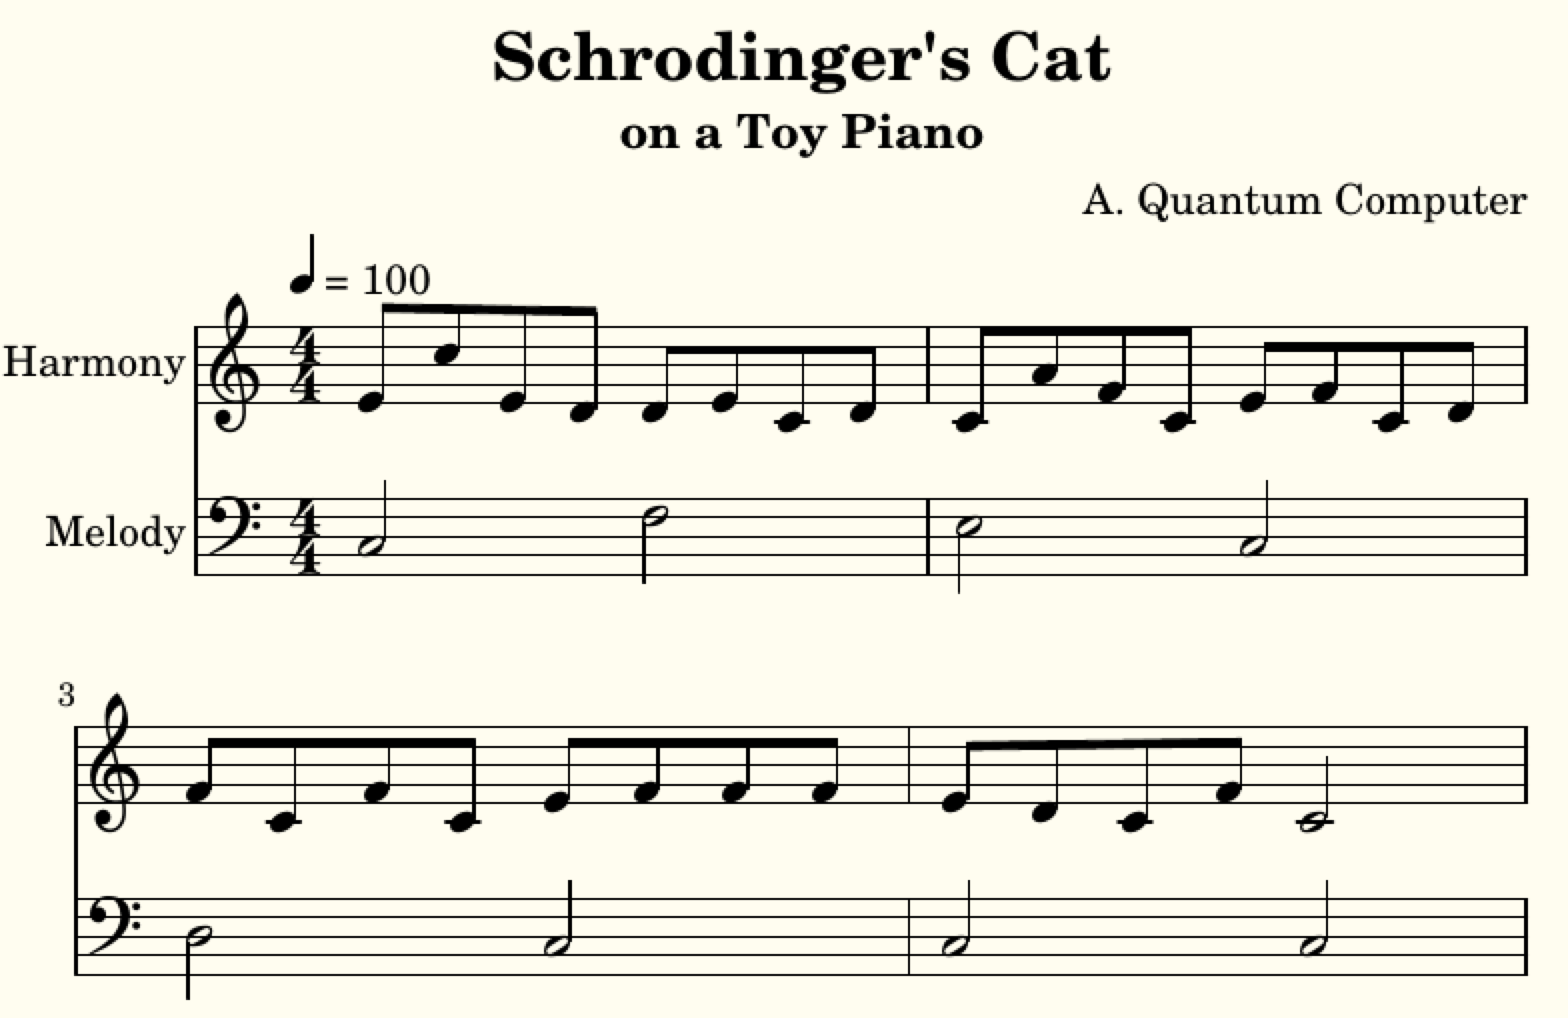
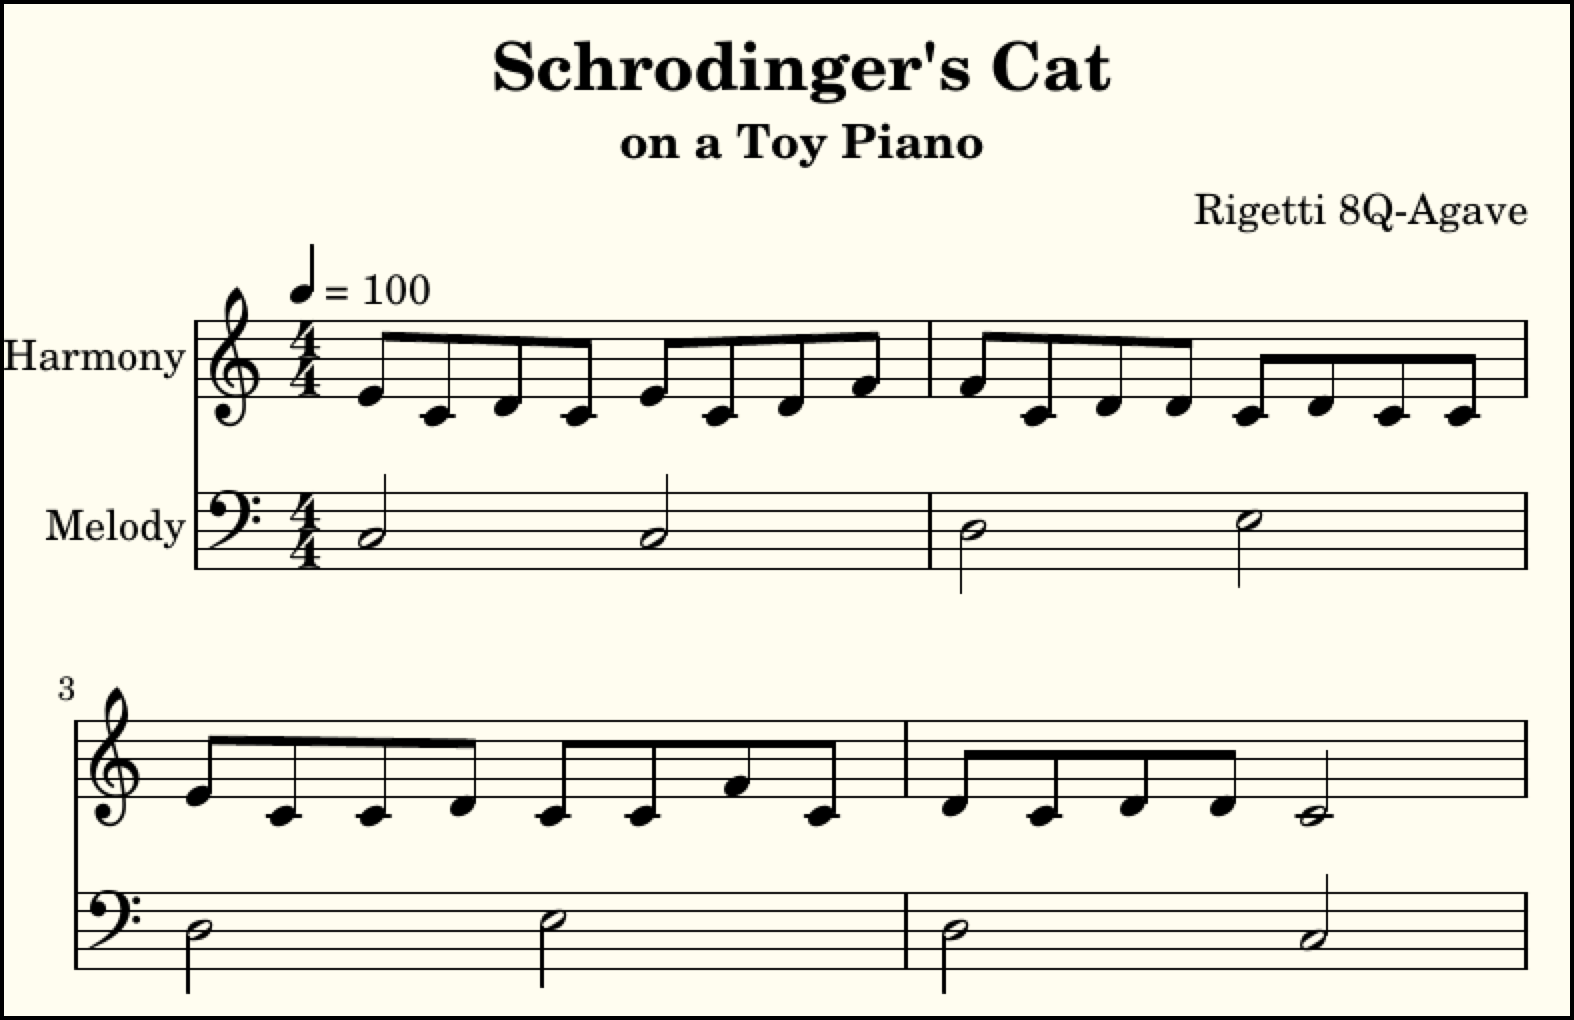
Update docs, UI messages, and bulletproofing

diff --git a/static/index.html b/static/index.html
@@ -57,11 +57,13 @@
                     <v-container>
                       <p>In the <a href="https://en.wikipedia.org/wiki/Doubly_stochastic_matrix" target="_blank">
                           doubly-stochastic matrix</a> above, enter your desired probabilities for each pitch
-                          in the column heading to follow each pitch in the row heading.
-                          Make the total for each row and column add up to 1, and click the Optimize button.
-                          The <a href="https://en.wikipedia.org/wiki/Unistochastic_matrix" target="_blank">
-                          unistochastic matrix</a> on the right will then contain a unitary matrix that approximates
-                          your desired probabilities. To see the underlying amplitudes, de-selected the
+                          in the column heading to be played melodically following each pitch in the row heading.
+                          Make the totals for each row and column add up to 1, and click the Optimize Rotations button.
+                          The <a href="https://en.wikipedia.org/wiki/Orthogonal_matrix" target="_blank">
+                          orthogonal matrix</a> on the right will then contain values, that when squared,
+                          comprise a <a href="https://en.wikipedia.org/wiki/Unistochastic_matrix" target="_blank">
+                          unistochastic matrix</a> that approximates
+                          your desired probabilities. To see the orthogonal matrix values, deselect the
                           Show Probabilities checkbox.
                       </p>
                     </v-container>
@@ -92,11 +94,13 @@
                     <v-container>
                       <p>In the <a href="https://en.wikipedia.org/wiki/Doubly_stochastic_matrix" target="_blank">
                           doubly-stochastic matrix</a> above, enter your desired probabilities for each pitch
-                          in the column heading to be played with each pitch in the row heading.
-                          Make the total for each row and column add up to 1, and click the Optimize button.
-                          The <a href="https://en.wikipedia.org/wiki/Unistochastic_matrix" target="_blank">
-                          unistochastic matrix</a> on the right will then contain a unitary matrix that approximates
-                          your desired probabilities. To see the underlying amplitudes, de-selected the
+                          in the column heading to be played harmonically with each pitch in the row heading.
+                          Make the totals for each row and column add up to 1, and click the Optimize Rotations button.
+                          The <a href="https://en.wikipedia.org/wiki/Orthogonal_matrix" target="_blank">
+                          orthogonal matrix</a> on the right will then contain values, that when squared,
+                          comprise a <a href="https://en.wikipedia.org/wiki/Unistochastic_matrix" target="_blank">
+                          unistochastic matrix</a> that approximates
+                          your desired probabilities. To see the orthogonal matrix values, deselect the
                           Show Probabilities checkbox.
                       </p>
                     </v-container>
@@ -113,7 +117,7 @@
               </v-container>
             </v-tab-item>
 
-            <v-tab>Compose & Play</v-tab>
+            <v-tab>Performance</v-tab>
             <v-tab-item>
               <v-container fluid>
                 <div id="piano">

diff --git a/static/piano.js b/static/piano.js
@@ -49,11 +49,11 @@ var vm = Vue.component('piano-component', {
         '<button v-if="playing_time&gt;1" @click="stopplay">Stop<i class="fa fa-pause"></i></button>' +
         '<br/><br/>' +
         '<p>Choose a <a href="https://en.wikipedia.org/wiki/Counterpoint#Species_counterpoint" ' +
-          'target="_blank"> counterpoint species</a> to generate by clicking one of the Species' +
-          ' buttons above. When the dialog appears that contains a string representing the composition,' +
+          'target="_blank"> counterpoint species</a> to perform by clicking one of the Species' +
+          ' buttons above. When the dialog appears that contains a string representing the performance,' +
           ' you may optionally paste it into a Lilypond music score engraver. After clicking the OK' +
-          ' button, click the Play button to hear the music composed by you and the quantum computer' +
-          ' or simulator.</p>' +
+          ' button, click the Play button to hear a performance by the quantum computer or simulator' +
+          ' of the quantum music you composed.</p>' +
       '</div>' +
     '</div>',
   data: function () {

diff --git a/quantum_toy_piano_service_rigetti.py b/quantum_toy_piano_service_rigetti.py
@@ -57,9 +57,9 @@ RY_RAD_ADJ_HARMONY = 0
 @app.route('/toy_piano_counterpoint')
 def toy_piano_counterpoint():
     pitch_index = int(request.args['pitch_index'])
-    if (pitch_index >= NUM_PITCHES):
-        pitch_index %= (DIATONIC_SCALE_OCTAVE_PITCHES - 1)
-    #print("pitch_index: ", pitch_index)
+    pitch_index %= (DIATONIC_SCALE_OCTAVE_PITCHES - 1)
+    if pitch_index >= NUM_PITCHES:
+        pitch_index = 0
 
     species = int(request.args['species'])
     #print("species: ", species)

diff --git a/README.md b/README.md
@@ -1,22 +1,36 @@
-# Quantum Toy Piano
+# Quantum Music Composer for Rigetti quantum computers
 
-The Quantum Toy Piano application enables a user to compose music that is performed by a quantum computer. The musical composition consists of a series of quantum circuits. Each note in the *performance* of a composition is a quantum state, which when measured results in a pitch determined by quantum mechanical behavior. This normally results in unique melodies and harmonies each time a given composition is performed by the quantum computer. Fig. 1 contains the music score captured from one such performance.
+The Quantum Music Composer application enables a user to compose music that is performed by a quantum computer or quantum simulator. The musical *composition* consists of a series of quantum circuits. Each quantum musical tone [[1]](#references) in the *performance* of a composition is a quantum state, which when measured results in a pitch determined by quantum mechanical behavior. This normally results in unique melodies and harmonies each time a given composition is performed by a quantum computer or simulator. Fig. 1 contains a musical score captured from one such performance.
 
 ![third-species-performance](docimages/third-species-performance.png)
 
-FIG. 1. Music score captured from performance of a quantum musical composition
+FIG. 1. Musical score captured from the performance of a quantum musical composition
 
-To create a quantum musical composition, the user first supplies the desired probabilities for a given pitch to follow another given pitch melodically. Take a moment to examine the music score in Fig. 1 and notice that the staff labeled **Melody** contains an eight-note melody, and realize that the staff labeled **Harmony** actually contains seven four-note melodies.  These probabilities are entered by the user into the doubly-stochastic matrix located on the left side of the MELODY MATRICES tab, shown in Fig 2. 
+## Creating a quantum musical composition
 
-![melody-tab](docimages/melody-tab.png)
+To create a quantum musical composition, the user first supplies the desired probabilities for a given pitch to follow another given pitch *melodically*. Take a moment to examine the music score in Fig. 1 and notice that the staff labeled **Melody** contains an eight-note melody. Please also realize that the staff labeled **Harmony** actually contains seven four-note melodies.  Users enter their desired probabilities into the [doubly-stochastic matrix](https://en.wikipedia.org/wiki/Doubly_stochastic_matrix) located on the left side of the **MELODY MATRICES** tab, shown in Fig 2. 
+
+![melody-tab-orthogonal-matrix](docimages/melody-tab-orthogonal-matrix.png)
 
 FIG. 2. User interface for composing quantum melodic progressions
 
-Clicking the **Optimize Rotations** button creates a unitary matrix TODO: LEFT OFF HERE
+Clicking the **Optimize Rotations** button updates the [orthogonal matrix](https://en.wikipedia.org/wiki/Orthogonal_matrix) on the right to contain values, that when squared, comprise a [unistochastic matrix](https://en.wikipedia.org/wiki/Unistochastic_matrix) that approximates the user's desired probabilities. Deselecting and selecting the **Show Probabilities** checkbox toggles between showing the orthogonal matrix and the unistochastic matrix, respectively. The application optimizes the unistochastic matrix by gradually changing the angles of the six degree-of-freedom rotations in four-dimensional vector space until the difference between the doubly-stochastic matrix and the unistochastic matrix is minimized.  You can experiment with the effects of each rotation on the matrix on the right by using the sliders in the **Degree of Freedom Rotations** region of this tab. Each slider has the range ![eqn_range_0_pi2](docimages/eqn_range_0_pi2.gif) radians.
 
-Here's the Lilipond string: 
+To continue creating the quantum musical composition, the user supplies the desired probabilities for a given pitch to be played *harmonically* with another given pitch. Take another moment to examine the musical score in Fig. 1 and notice that each of the notes in the staff labeled **Melody** have a note in the staff labeled **Harmony** directly above it. Users enter their desired probabilities into the [doubly-stochastic matrix](https://en.wikipedia.org/wiki/Doubly_stochastic_matrix) located on the left side of the **HARMONY MATRICES** tab, shown in Fig 3.
 
-\version "2.18.2" \paper {#(set-paper-size "a5")} \header {title="Schrodinger's Cat" subtitle="on a Toy Piano" composer = "A. Quantum Computer"}  melody = \absolute { \clef "bass" \numericTimeSignature \time 4/4 \tempo 4 = 100 c2 f2 e2 c2 d2 c2 c2 c2} harmony = \absolute { \clef "treble" \numericTimeSignature \time 4/4  e'8 c''8 e'8 d'8 d'8 e'8 c'8 d'8 c'8 a'8 f'8 c'8 e'8 f'8 c'8 d'8 f'8 c'8 f'8 c'8 e'8 f'8 f'8 f'8 e'8 d'8 c'8 f'8 c'2} \score { << \new Staff \with {instrumentName = #"Harmony"}  { \harmony } \new Staff \with {instrumentName = #"Melody"}  { \melody } >> }
+![harmony-tab-unistochastic-matrix](docimages/harmony-tab-unistochastic-matrix.png)
+
+FIG. 3. User interface for composing quantum harmonic intervals
+
+The harmonic probabilities entered will apply to all of the notes played harmonically in the performance except for the final note on each staff, as those two notes will have the same pitch class as the first note in the melody staff. These notes provide a sense of resolution and finality to the performance, and are the only two notes in the performance that aren't determined by the quantum computer.
+
+## Performing a quantum musical composition
+
+To have the quantum computer or simulator perform your quantum musical composition, navigate to the **Performance** tab shown in Fig 4.
+
+![performance-tab](docimages/performance-tab.png)
+
+FIG. 4. User interface for performing quantum musical composition
 
 
 
@@ -24,3 +38,6 @@ Here's the Lilipond string:
 
 To install.
 
+## References
+
+[1] Volkmar Putz and Karl Svozil, “Quantum music,” (2015), [ arXiv:1503.09045](https://arxiv.org/abs/1503.09045) [quant-ph]
